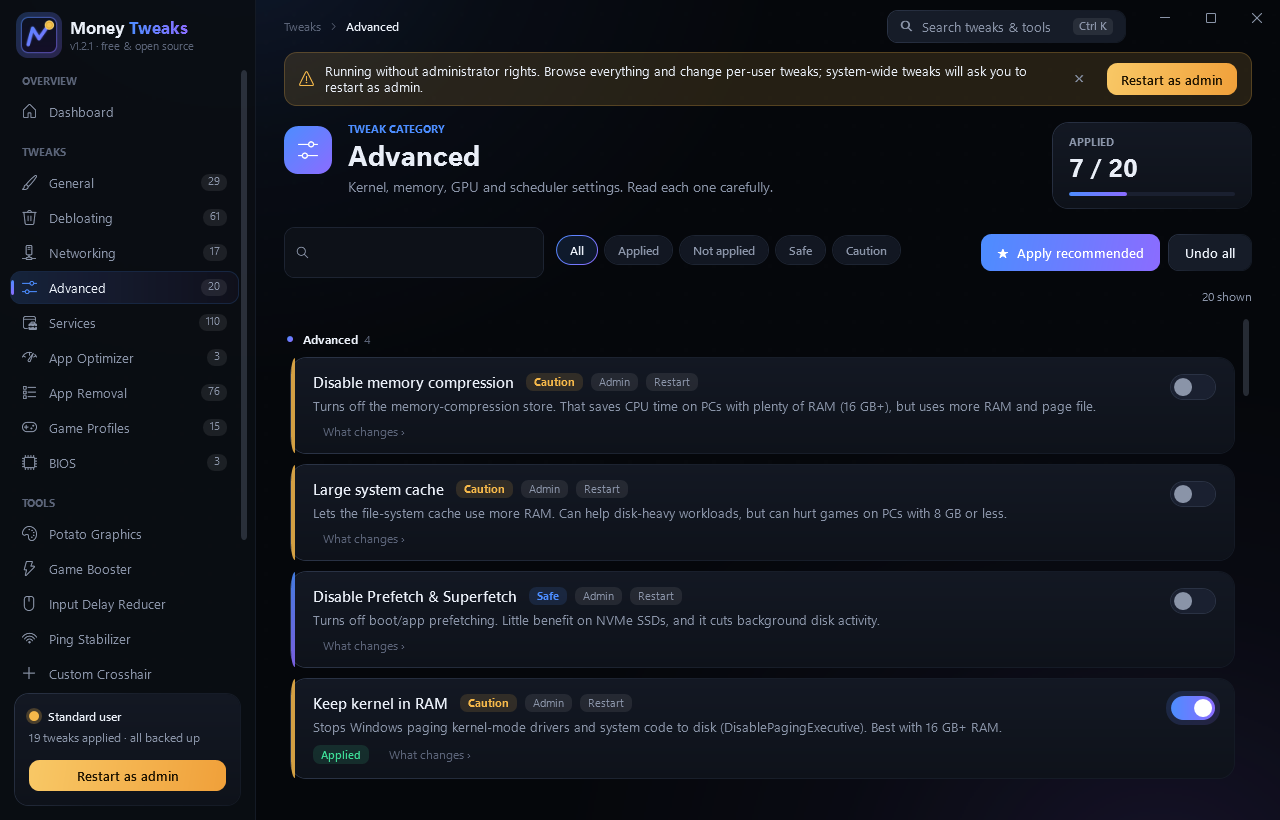
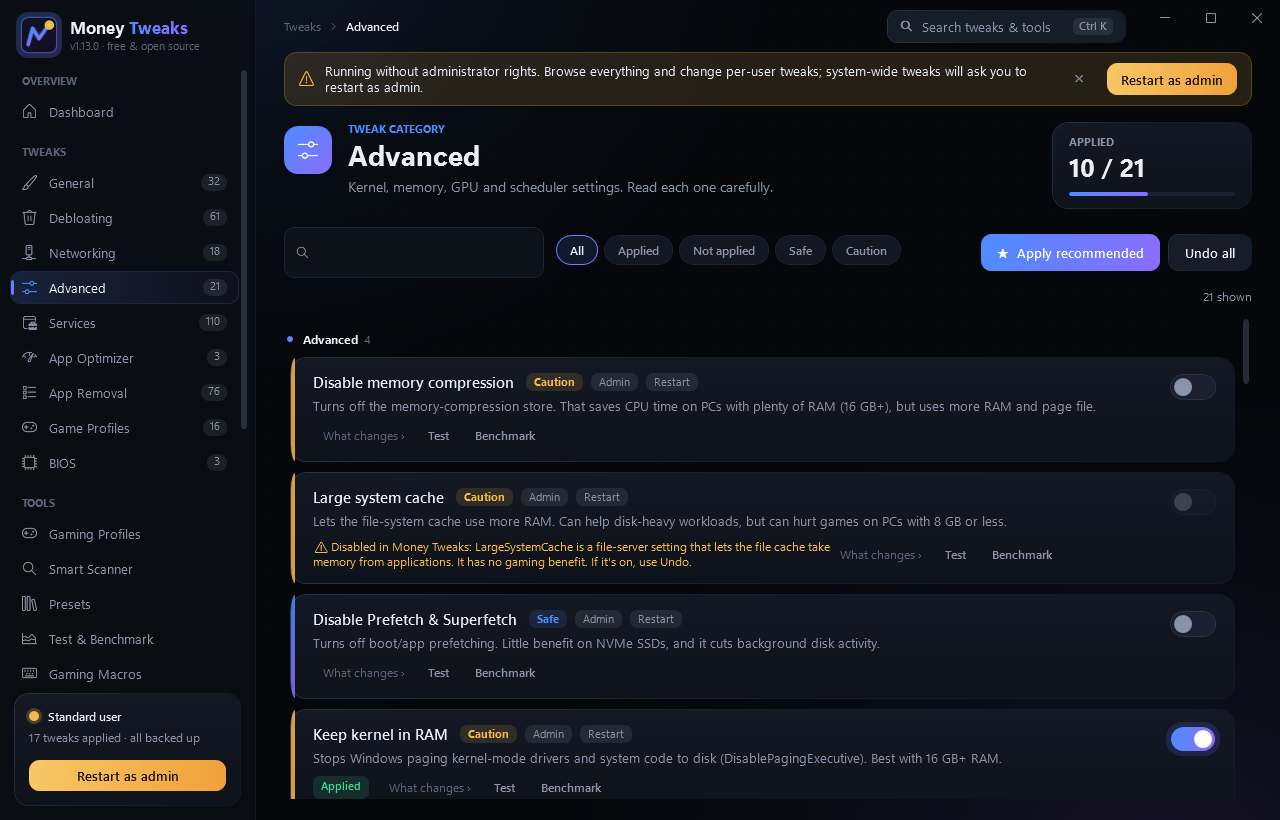
Website: new screenshots and sections for 1.13.0 features; screenshot mode hides user name in paths

diff --git a/docs/index.html b/docs/index.html
@@ -4,13 +4,13 @@
 <meta charset="utf-8">
 <meta name="viewport" content="width=device-width, initial-scale=1, viewport-fit=cover">
 <title>Money Tweaks: free, reversible Windows 10/11 tweaks for gamers</title>
-<meta name="description" content="Money Tweaks is a free, open-source Windows 10/11 tweaker: 334 reversible tweaks, Potato Graphics, Game Booster, Input Delay Reducer, Ping Stabilizer and a custom crosshair. No ads, no accounts.">
+<meta name="description" content="Money Tweaks is a free, open-source Windows 10/11 tweaker: 340 reversible tweaks, Potato Graphics, Game Booster, Input Delay Reducer, Ping Stabilizer and a custom crosshair. No ads, no accounts.">
 <meta name="keywords" content="windows tweaks, fps boost, debloat windows 11, gaming optimizer, input delay, ping, free, open source">
 <link rel="canonical" href="https://money-tweaks.pages.dev/">
 <meta name="theme-color" content="#05070b">
 <meta property="og:type" content="website">
 <meta property="og:title" content="Money Tweaks: free, reversible Windows tweaks">
-<meta property="og:description" content="334 reversible tweaks and gaming tools for Windows 10/11. Free and open source.">
+<meta property="og:description" content="340 reversible tweaks and gaming tools for Windows 10/11. Free and open source.">
 <meta property="og:url" content="https://money-tweaks.pages.dev/">
 <meta property="og:image" content="https://money-tweaks.pages.dev/assets/social-card.png">
 <meta name="twitter:card" content="summary_large_image">
@@ -21,7 +21,7 @@
 <link rel="icon" type="image/png" href="assets/favicon-64.png">
 <link rel="apple-touch-icon" href="assets/apple-touch-icon.png">
 <script type="application/ld+json">
-{"@context":"https://schema.org","@type":"SoftwareApplication","name":"Money Tweaks","operatingSystem":"Windows 10, Windows 11","applicationCategory":"UtilitiesApplication","offers":{"@type":"Offer","price":"0","priceCurrency":"USD"},"softwareVersion":"1.4.1","license":"https://opensource.org/licenses/MIT","url":"https://money-tweaks.pages.dev/","downloadUrl":"https://github.com/MoneyMan82/money-tweaks/releases/latest"}
+{"@context":"https://schema.org","@type":"SoftwareApplication","name":"Money Tweaks","operatingSystem":"Windows 10, Windows 11","applicationCategory":"UtilitiesApplication","offers":{"@type":"Offer","price":"0","priceCurrency":"USD"},"softwareVersion":"1.13.0","license":"https://opensource.org/licenses/MIT","url":"https://money-tweaks.pages.dev/","downloadUrl":"https://github.com/MoneyMan82/money-tweaks/releases/latest"}
 </script>
 <style>
 :root{--bg:#05070b;--surface:#0a0d13;--card:#10141c;--border:#1d2432;--accent:#4c8dff;--accent2:#8b6cff;--gold:#f5b84a;--text:#e9eef7;--muted:#8a94a8;--radius:14px}
@@ -147,7 +147,7 @@ footer{border-top:1px solid var(--border);padding:40px 0 calc(40px + env(safe-ar
     <div class="wrap hero-inner">
       <div class="eyebrow">Free · Open source · Windows 10 &amp; 11</div>
       <h1>Tune Windows for games.<br><span class="hl">Undo anything.</span></h1>
-      <p class="lead">Money Tweaks bundles 334 reversible tweaks and a set of gaming tools in one fast, dark app. Every change is backed up first, labelled Safe or Caution, and undone with the same switch.</p>
+      <p class="lead">Money Tweaks bundles 340 reversible tweaks and a set of gaming tools in one fast, dark app. Every change is backed up first, labelled Safe or Caution, and undone with the same switch.</p>
       <div class="cta">
         <a class="btn primary" href="https://github.com/MoneyMan82/money-tweaks/releases/latest/download/MoneyTweaks-Setup.exe">
           <svg width="18" height="18" viewBox="0 0 24 24" fill="none" stroke="currentColor" stroke-width="2.4" stroke-linecap="round"><path d="M12 3v12m0 0l-5-5m5 5l5-5M4 20h16"/></svg>
@@ -155,12 +155,12 @@ footer{border-top:1px solid var(--border);padding:40px 0 calc(40px + env(safe-ar
         <a class="btn" href="https://github.com/MoneyMan82/money-tweaks">View source on GitHub</a>
       </div>
       <div class="facts">
-        <span class="fact"><b>334</b> reversible tweaks</span>
+        <span class="fact"><b>340</b> reversible tweaks</span>
         <span class="fact"><b>9</b> categories</span>
         <span class="fact"><b>$0</b> no tiers, ads or accounts</span>
         <span class="fact">MIT licensed</span>
       </div>
-      <img class="shot-hero reveal" src="assets/screenshots/dashboard.png" width="1240" height="800" alt="Money Tweaks dashboard showing live CPU, GPU, memory, disk and network tiles">
+      <img class="shot-hero reveal" src="assets/screenshots/dashboard.png" width="1280" height="820" alt="Money Tweaks dashboard showing live CPU, GPU, memory, disk and network tiles">
     </div>
   </section>
 
@@ -168,10 +168,16 @@ footer{border-top:1px solid var(--border);padding:40px 0 calc(40px + env(safe-ar
     <div class="wrap">
       <div class="section-head reveal"><div class="eyebrow">Tools</div><h2>More than a list of switches</h2><p class="muted">Alongside the tweak library, Money Tweaks ships with tools that handle the jobs gamers usually need three separate apps for.</p></div>
       <div class="cards">
-        <div class="card reveal"><div class="ico"><svg viewBox="0 0 24 24" fill="none" stroke="currentColor" stroke-width="2"><path d="M4 18c2-6 6-9 12-10M16 8l-1 5M16 8l-5-1"/><circle cx="7" cy="17" r="2"/></svg></div><h3>Potato Graphics</h3><p>Low, Potato and Ultra potato levels for Fortnite, Minecraft Java and Rocket League: Performance mode, low-poly builds, 3D resolution down to 25%, uncapped FPS and optional stretched res. One-click restore.</p></div>
+        <div class="card reveal"><div class="ico"><svg viewBox="0 0 24 24" fill="none" stroke="currentColor" stroke-width="2"><rect x="3" y="7" width="18" height="12" rx="3"/><path d="M8 11v4M6 13h4M15 12h.01M18 14h.01"/></svg></div><h3>Gaming Profiles</h3><p>Fortnite Competitive, Fortnite Performance Mode, Geometry Dash and General Gaming, or your own. One click to switch, or switch automatically when the game starts and restore everything when it closes.</p></div>
+        <div class="card reveal"><div class="ico"><svg viewBox="0 0 24 24" fill="none" stroke="currentColor" stroke-width="2"><circle cx="11" cy="11" r="7"/><path d="M21 21l-4.3-4.3"/></svg></div><h3>Smart Scanner</h3><p>Reads your hardware, power plan, RAM, startup apps, background processes and network, then lists findings with severity, evidence and confidence. Fix, Undo or Ignore each one.</p></div>
+        <div class="card reveal"><div class="ico"><svg viewBox="0 0 24 24" fill="none" stroke="currentColor" stroke-width="2"><path d="M3 3v18h18"/><path d="M7 15l4-4 3 3 5-6"/></svg></div><h3>Test &amp; Benchmark</h3><p>Verify every tweak against what Windows actually reports, and run before/after benchmarks: a synthetic 3D stress scene with balanced A/B runs, real frame times, and verdicts only when a difference beats the noise.</p></div>
+        <div class="card reveal"><div class="ico"><svg viewBox="0 0 24 24" fill="none" stroke="currentColor" stroke-width="2"><rect x="2" y="4" width="20" height="13" rx="2"/><path d="M8 21h8M12 17v4"/></svg></div><h3>Stretched Resolution</h3><p>Pick a monitor, type any resolution and see its aspect ratio. Every change is checked with your display driver first and reverts automatically unless you confirm it.</p></div>
+        <div class="card reveal"><div class="ico"><svg viewBox="0 0 24 24" fill="none" stroke="currentColor" stroke-width="2"><path d="M4 9V4h5M20 15v5h-5M4 4l6 6M20 20l-6-6"/></svg></div><h3>Fortnite Stretched</h3><p>Sets a custom resolution for Fortnite only, in its own GameUserSettings.ini, without touching your desktop. Backup, restore and reset included.</p></div>
+        <div class="card reveal"><div class="ico"><svg viewBox="0 0 24 24" fill="none" stroke="currentColor" stroke-width="2"><rect x="2" y="6" width="20" height="12" rx="2"/><path d="M6 10h.01M10 10h.01M14 10h.01M18 10h.01M7 14h10"/></svg></div><h3>Gaming Macros</h3><p>Timed key and mouse-button sequences with hotkey triggers, screen-colour triggers, pause and an emergency stop. Blocked in competitive anti-cheat games.</p></div>
+        <div class="card reveal"><div class="ico"><svg viewBox="0 0 24 24" fill="none" stroke="currentColor" stroke-width="2"><path d="M4 18c2-6 6-9 12-10M16 8l-1 5M16 8l-5-1"/><circle cx="7" cy="17" r="2"/></svg></div><h3>Potato Graphics</h3><p>Fortnite potato studio with a before/after 3D preview, plus potato levels for Minecraft Java and Rocket League. Only the game's own settings files change, backed up first, with one-click restore.</p></div>
         <div class="card reveal"><div class="ico"><svg viewBox="0 0 24 24" fill="none" stroke="currentColor" stroke-width="2"><path d="M13 2L4 14h7l-1 8 9-12h-7z"/></svg></div><h3>Game Booster</h3><p>One click: High/Ultimate power plan, close the background apps you pick, raise your game's priority and clear standby memory.</p></div>
         <div class="card reveal"><div class="ico"><svg viewBox="0 0 24 24" fill="none" stroke="currentColor" stroke-width="2"><rect x="7" y="2" width="10" height="20" rx="5"/><path d="M12 6v4"/></svg></div><h3>Input Delay Reducer</h3><p>Holds a 0.5 ms kernel timer while the app is open and groups the input tweaks (mouse acceleration, sticky keys, MSI mode, timers).</p></div>
-        <div class="card reveal"><div class="ico"><svg viewBox="0 0 24 24" fill="none" stroke="currentColor" stroke-width="2"><path d="M2 12h4l3-8 4 16 3-8h6"/></svg></div><h3>Ping Stabilizer</h3><p>Live latency, jitter and packet-loss graph against any host, with a connection grade and the network tweaks that remove local lag spikes.</p></div>
+        <div class="card reveal"><div class="ico"><svg viewBox="0 0 24 24" fill="none" stroke="currentColor" stroke-width="2"><path d="M2 12h4l3-8 4 16 3-8h6"/></svg></div><h3>Ping Stabilizer</h3><p>Live latency, jitter and packet-loss graph, plus a 20-second diagnostic that tells you whether lag comes from your home network or your provider. Clearly labelled as generic ping, not game-server ping.</p></div>
         <div class="card reveal"><div class="ico"><svg viewBox="0 0 24 24" fill="none" stroke="currentColor" stroke-width="2"><circle cx="12" cy="12" r="8"/><path d="M12 2v6M12 16v6M2 12h6M16 12h6"/></svg></div><h3>Custom Crosshair</h3><p>Click-through overlay with cross, dot, T and circle styles, colours, gap, outline and per-monitor placement. Toggle with Ctrl + Alt + X.</p></div>
         <div class="card reveal"><div class="ico"><svg viewBox="0 0 24 24" fill="none" stroke="currentColor" stroke-width="2"><rect x="3" y="4" width="18" height="14" rx="2"/><path d="M7 14l3-3 3 2 4-5"/></svg></div><h3>Hardware Monitor</h3><p>CPU, GPU, RAM, disk and network usage with sparklines, your specs, and a check that flags RAM running below its rated speed.</p></div>
         <div class="card reveal"><div class="ico"><svg viewBox="0 0 24 24" fill="none" stroke="currentColor" stroke-width="2"><path d="M12 6v6l4 2"/><path d="M3 12a9 9 0 1 0 3-6.7L3 8"/><path d="M3 3v5h5"/></svg></div><h3>Backup &amp; Restore</h3><p>Restore points, a list of everything applied, and one button to undo it all.</p></div>
@@ -182,16 +188,16 @@ footer{border-top:1px solid var(--border);padding:40px 0 calc(40px + env(safe-ar
 
   <section id="categories">
     <div class="wrap">
-      <div class="section-head reveal"><div class="eyebrow">Tweak library</div><h2>334 tweaks in 9 categories</h2><p class="muted">Every tweak maps to a documented Windows setting: a registry value, service start type, power-plan setting, scheduled task, network option or Store app. Expand any card in the app to see exactly what it changes.</p></div>
+      <div class="section-head reveal"><div class="eyebrow">Tweak library</div><h2>340 tweaks in 9 categories</h2><p class="muted">Every tweak maps to a documented Windows setting: a registry value, service start type, power-plan setting, scheduled task, network option or Store app. Expand any card in the app to see exactly what it changes, the expected benefit, how sure we are, and how it's verified and undone. Settings that weaken security are never applied.</p></div>
       <div class="cards">
-        <div class="card reveal"><span class="count">29</span><h3>General</h3><p>Visual effects, instant menus, Ultimate Performance plan, core parking, USB suspend, mouse acceleration, Game Mode, Game DVR, Explorer and taskbar.</p></div>
+        <div class="card reveal"><span class="count">32</span><h3>General</h3><p>Visual effects, instant menus, Ultimate Performance plan, core parking, USB and PCI Express power saving, mouse acceleration, Game Mode, Game DVR, notification pop-ups, Explorer and taskbar.</p></div>
         <div class="card reveal"><span class="count">61</span><h3>Debloating</h3><p>Telemetry, advertising ID, activity history, Start and lock-screen ads, Copilot, Recall, Widgets, Edge background mode and telemetry tasks.</p></div>
-        <div class="card reveal"><span class="count">17</span><h3>Networking</h3><p>Nagle's algorithm, network throttling, QoS reserve, TCP options, Cloudflare/Google/Quad9 DNS, adapter power saving, LSO, Teredo, LLMNR.</p></div>
-        <div class="card reveal"><span class="count">20</span><h3>Advanced</h3><p>Memory compression, prefetch, dynamic tick, HAGS, fullscreen optimizations, GPU MSI mode, MMCSS priorities, NTFS, Memory Integrity.</p></div>
+        <div class="card reveal"><span class="count">18</span><h3>Networking</h3><p>Network throttling, TCP options, Cloudflare/Google/Quad9 DNS, adapter power saving, Energy-Efficient Ethernet, LSO, Teredo, LLMNR, and Nagle (marked TCP-only).</p></div>
+        <div class="card reveal"><span class="count">21</span><h3>Advanced</h3><p>Memory compression, prefetch, dynamic tick, HAGS, optimizations for windowed games, fullscreen optimizations, GPU MSI mode, MMCSS priorities, NTFS.</p></div>
         <div class="card reveal"><span class="count">110</span><h3>Services</h3><p>Telemetry, Xbox, printing, remote access, sensors, Hyper-V guest and enterprise services set to Manual or Disabled.</p></div>
         <div class="card reveal"><span class="count">3</span><h3>App Optimizer</h3><p>Below-normal priority for launchers and Discord, launcher auto-start off, idle-priority search indexer.</p></div>
         <div class="card reveal"><span class="count">76</span><h3>App Removal</h3><p>Bing apps, Clipchamp, Solitaire, Teams, Xbox apps, Copilot, OneDrive and sponsored third-party apps like TikTok and Candy Crush.</p></div>
-        <div class="card reveal"><span class="count">15</span><h3>Game Profiles</h3><p>High CPU priority for Fortnite, VALORANT, CS2, Apex, Call of Duty, Rainbow Six, Rocket League, Overwatch 2, Minecraft and more.</p></div>
+        <div class="card reveal"><span class="count">16</span><h3>Game Profiles</h3><p>High CPU priority for Fortnite, VALORANT, CS2, Apex, Call of Duty, Rainbow Six, Rocket League, Overwatch 2, Minecraft and more, plus Fortnite on the dedicated GPU for two-GPU PCs.</p></div>
         <div class="card reveal"><span class="count">3</span><h3>BIOS</h3><p>Step-by-step guides for Resizable BAR, XMP/EXPO memory profiles and CPU C-States, with an in-app RAM speed check.</p></div>
       </div>
     </div>
@@ -199,9 +205,9 @@ footer{border-top:1px solid var(--border);padding:40px 0 calc(40px + env(safe-ar
 
   <section id="screens">
     <div class="wrap">
-      <div class="section-head reveal"><div class="eyebrow">Screenshots</div><h2>See it before you install</h2><p class="muted">Real screenshots of Money Tweaks 1.0.0, captured by the app on a Windows 11 PC.</p></div>
+      <div class="section-head reveal"><div class="eyebrow">Screenshots</div><h2>See it before you install</h2><p class="muted">Real screenshots of Money Tweaks 1.13.0, captured by the app on a Windows 11 PC.</p></div>
       <div class="tabs" role="tablist" id="tabs"></div>
-      <div class="gallery-frame reveal"><img id="shot" src="assets/screenshots/cat-general.png" width="1240" height="800" alt="Money Tweaks screenshot"></div>
+      <div class="gallery-frame reveal"><img id="shot" src="assets/screenshots/profiles.png" width="1280" height="820" alt="Money Tweaks screenshot"></div>
       <p class="caption" id="caption"></p>
     </div>
   </section>
@@ -271,6 +277,19 @@ dotnet run --project src\MoneyTweaks -c Release</pre>
     <div class="wrap">
       <div class="section-head reveal"><div class="eyebrow">Changelog</div><h2>What's new</h2></div>
       <div class="card reveal" style="margin-bottom:16px">
+        <h3>Recent releases <span class="muted" style="font-size:14px;font-weight:400">· October 2026</span></h3>
+        <ul class="list">
+          <li><b>1.13.0:</b> Fortnite Stretched: a custom resolution for Fortnite only, written to its own settings file with backup, restore and reset.</li>
+          <li><b>1.12.0:</b> Stretched Resolution: real monitor modes, driver-checked changes with an automatic-revert countdown, presets and scaling.</li>
+          <li><b>1.11.0:</b> Six new verified tweaks, benefit/confidence/verification details on every tweak, and a network diagnostic.</li>
+          <li><b>1.10.0:</b> Gaming Profiles with automatic switching when a game starts and full restore when it closes.</li>
+          <li><b>1.9.0:</b> Synthetic 3D benchmark, Smart Optimization Scanner, balanced A/B testing and honest verdicts.</li>
+          <li><b>1.7.0:</b> Tweak verification (read every setting back) and before/after benchmarks.</li>
+          <li><b>1.6.0:</b> Macro Maker: screen-colour triggers, pause/resume and a draggable timeline.</li>
+          <li><b>1.5.0:</b> Gaming Macros and Presets.</li>
+        </ul>
+      </div>
+      <div class="card reveal" style="margin-bottom:16px">
         <h3>1.1.0 <span class="muted" style="font-size:14px;font-weight:400">· October 2026</span></h3>
         <ul class="list">
           <li><b>Potato Graphics levels:</b> Low / Potato / Ultra potato, 3D resolution slider, Performance mode for low-poly builds, uncapped FPS, stretched 1440×1080.</li>
@@ -329,14 +348,19 @@ dotnet run --project src\MoneyTweaks -c Release</pre>
 
 <script>
 (function(){
-  var shots=[["cat-general","General","Category pages group tweaks with Safe/Caution labels, Admin and Restart badges, and a switch that undoes the tweak."],
-    ["cat-debloating","Debloating","Telemetry, ads and AI features. A gold switch means a tweak is only partially applied."],
-    ["cat-services","Services","110 services, each showing the exact start type it will set."],
-    ["cat-networking","Networking","Network stack and DNS tweaks."],
-    ["potato","Potato Graphics","Fortnite potato studio: presets, a before/after 3D preview and every change reviewed before it is applied."],
+  var shots=[["profiles","Profiles","Gaming Profiles: one-click or automatic switching when a game starts, with every change restored when it closes."],
+    ["scanner-results","Scanner","Smart Scanner: findings from your real hardware and settings, each with evidence, expected benefit and confidence."],
+    ["benchmark-audit","Verify","Every tweak read back from Windows: PASS, WARNING, FAIL or UNVERIFIABLE, with the evidence behind each."],
+    ["stretched-desktop","Stretched","Stretched Resolution: driver-checked modes, refresh rates, scaling, presets and a safe countdown before keeping a change."],
+    ["fnstretch","Fortnite Stretched","Fortnite-only resolution through its own settings file, with backup, restore and reset."],
+    ["potato","Potato","Fortnite potato studio: presets, a before/after 3D preview and every change reviewed before it is applied."],
+    ["presets","Presets","Built-in and custom presets with preview, apply, exact undo and benchmarking."],
+    ["cat-general","General","Category pages: Safe/Caution labels, Admin and Restart badges, Test and Benchmark on every tweak."],
+    ["cat-networking","Networking","Network stack, DNS and adapter tweaks."],
+    ["cat-advanced","Advanced","Scheduler, GPU and memory settings, each explained."],
+    ["ping","Ping","Live latency and jitter, plus a router-vs-internet diagnostic."],
     ["booster","Game Booster","Pick background apps to close and a game to prioritize."],
     ["input","Input Delay","Timer resolution control and the input tweak bundle."],
-    ["ping","Ping Stabilizer","Live latency and jitter monitoring."],
     ["crosshair","Crosshair","Crosshair editor with live preview."],
     ["monitor","Monitor","Live hardware counters."],
     ["restore","Restore","Restore points and undo-everything."]];

diff --git a/src/MoneyTweaks/Views/FortniteStretchedView.cs b/src/MoneyTweaks/Views/FortniteStretchedView.cs
@@ -173,7 +173,9 @@ public sealed class FortniteStretchedView : UserControl, IPageLifecycle
         if (Core.Features.PotatoGraphics.IsRunning(FortniteResolution.Game)) tags.Children.Add(Ui.Tag("Fortnite is running: close it before applying", "Danger"));
         _fileInfo.Children.Add(tags);
         var pathRow = new WrapPanel { Margin = new Thickness(0, 8, 0, 0) };
-        pathRow.Children.Add(new TextBlock { Text = path, FontFamily = Ui.Res<FontFamily>("MonoFont"), FontSize = 11.5, Foreground = Ui.Brush("Muted"), VerticalAlignment = VerticalAlignment.Center, TextWrapping = TextWrapping.Wrap, Margin = new Thickness(0, 0, 10, 0) });
+        // Screenshot mode (website images) hides the Windows user name in the path.
+        var shownPath = App.ScreenshotMode ? path.Replace(Environment.GetFolderPath(Environment.SpecialFolder.LocalApplicationData), "%LOCALAPPDATA%", StringComparison.OrdinalIgnoreCase) : path;
+        pathRow.Children.Add(new TextBlock { Text = shownPath, FontFamily = Ui.Res<FontFamily>("MonoFont"), FontSize = 11.5, Foreground = Ui.Brush("Muted"), VerticalAlignment = VerticalAlignment.Center, TextWrapping = TextWrapping.Wrap, Margin = new Thickness(0, 0, 10, 0) });
         pathRow.Children.Add(Ui.Btn("Open folder", (_, _) =>
         {
             try { Process.Start(new ProcessStartInfo("explorer.exe", $"/select,\"{path}\"") { UseShellExecute = true }); }

diff --git a/PROGRESS.md b/PROGRESS.md
@@ -195,3 +195,8 @@ Resume point for future sessions. Keep it short.
   fields + presets, window mode, lock, Apply / Restore backup / Reset, honest notice and troubleshooting steps.
 - Tests: FortniteIniTests on a temp copy (apply + preserve + backup + lock, read-only input, restore, reset, invalid/missing). 110 pass.
 - The real Fortnite file was not modified (timestamp unchanged; no backup in the real profile).
+
+## Session 2026-10-17 (website): v1.13.0 tagged; site updated; next version 1.14.0
+- docs/index.html: version 1.13.0 in JSON-LD, 340 tweaks (hero/meta/facts/categories), 6 new tool cards, Potato/Ping cards updated,
+  16-entry screenshot gallery, recent-releases changelog card. docs/sitemap.xml lastmod 2026-10-17. README count 340.
+- Screenshots from screenshot mode, reviewed for personal data: Fortnite path masked; macros page left out (user's own macros).

diff --git a/CHANGELOG.md b/CHANGELOG.md
@@ -1,5 +1,9 @@
 # Changelog
 
+## 1.14.0 – unreleased
+- Screenshot mode (used for website images) shows the Fortnite settings path as %LOCALAPPDATA%, hiding the Windows user name.
+- Website: new screenshots, tool cards for Profiles, Scanner, Test & Benchmark, Stretched Resolution, Fortnite Stretched and Macros, 340-tweak counts, recent-release changelog.
+
 ## 1.13.0 – unreleased
 - **Fortnite Stretched** (new tab, INI method): finds Fortnite's GameUserSettings.ini automatically, any custom width × height
   with live aspect ratio and common stretched presets, window mode, optional read-only lock. Apply (preview of every key,

diff --git a/README.md b/README.md
@@ -1,6 +1,6 @@
 # Money Tweaks
 
-Free, open-source Windows 10/11 tweaker for gamers. It has 334 reversible tweaks, gaming tools and a clean dark UI.
+Free, open-source Windows 10/11 tweaker for gamers. It has 340 reversible tweaks, gaming tools and a clean dark UI.
 No accounts, no ads, no telemetry, no paid tiers.
 
 ![Money Tweaks dashboard](docs/assets/screenshots/dashboard.png)
